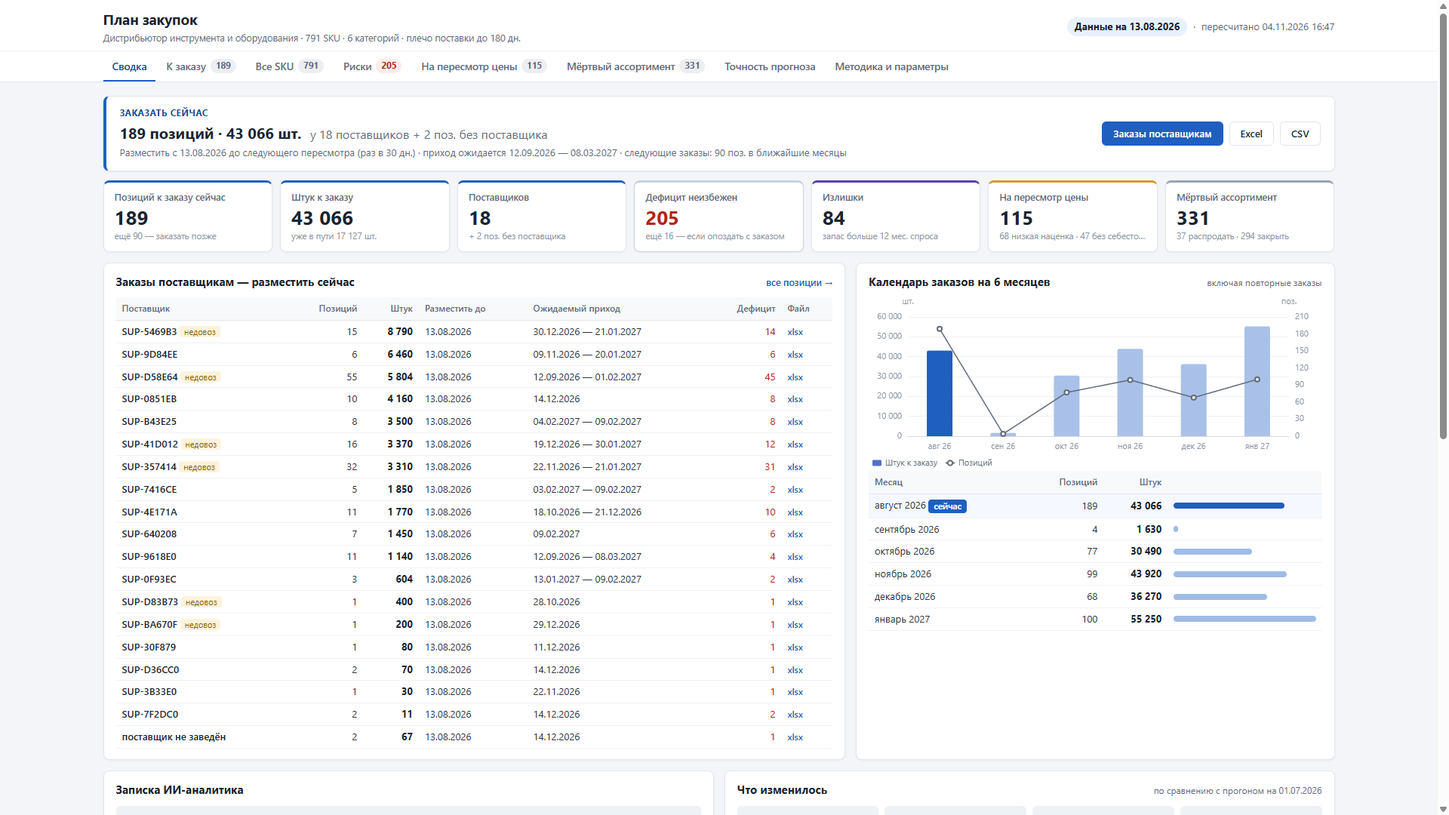
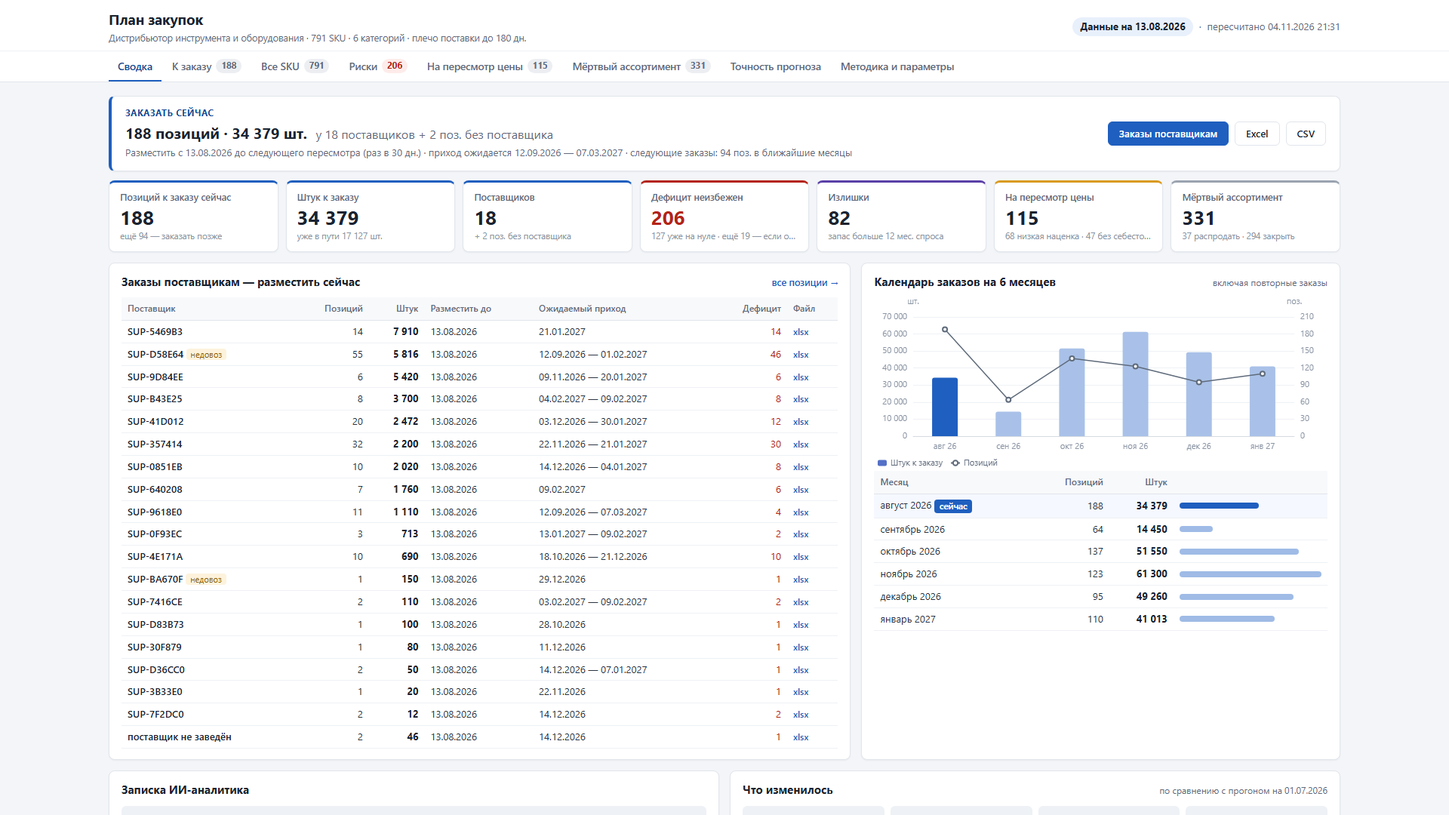
docs: решения D01–D11, словарь, прогресс, README под новые правила
AGENTS.md ссылался на .autopilot/PROGRESS.md, CONTEXT.md и docs/adr/ — их не было.
README: объяснение «331 мёртвых + 47 без себестоимости = 378», раздел о точности
прогноза, новые параметры; скилл /zakupki — новые поля расшифровки и бэктеста.

diff --git a/docs/adr/README.md b/docs/adr/README.md
@@ -1,0 +1,83 @@
+# Решения (ADR)
+
+Почему расчёт устроен так, а не проще. D01–D06 приняты во время сборки (подробности — в
+`.autopilot/2026-11-04-procurement-ai--wip/spec.md`, истории 6, 12, 15, 16, 22). D07–D11 — правки
+после ревью логики 2026-11-04: каждая найдена на реальных данных, числа «до → после» ниже.
+
+| № | Решение | Почему | Где в коде |
+|---|---|---|---|
+| D01 | «Получено» по заказу — из `receipts.csv` (приходы SKU от поставщика в окне [дата заказа; плановая + 180 дн.]); поправка на недовоз не больше ×1.2 | `qty_received` у закрытых заказов ERP почти всегда 0; при ×1.5 заказ раздувался у 13 из 20 поставщиков | `supply.supplier_reliability` |
+| D02 | Пустая наценка при продажах за 12 мес. — не «мёртвый», а «нет себестоимости» → на пересмотр | В README выгрузки 378 «мёртвых», но у 47 из них продажи были (1–22 шт.): 331 + 47 = 378 | `plan.build_plan` |
+| D03 | Прогноз на год не выше 2× продаж последних 12 мес. | Оценка упущенного спроса не должна вести к перезаказу; срезанные — с флагом | `demand.build_demand` |
+| D04 | σ устойчивая — 1.25 × MAD; страховой ≤ 2 мес. спроса | У прерывистых продаж обычная σ даёт страховой больше самого спроса | `plan.robust_sigma` |
+| D05 | Партия = медиана приходов, только если ≤ половины годового прогноза | Иначе медленная позиция заказывается на годы вперёд | `supply.lot_size`, `plan.need_at` |
+| D06 | Спрос до прихода при нулевом остатке потерян, не дозаказывается | Импорт идёт 4–6 мес.: то, что не продано в дефицит, уже не продать этим заказом | `plan.need_at` |
+| D07 | Страховой запас по сезону окна | см. ниже | `plan.build_plan` (`_window_part`, `safety_t`) |
+| D08 | До партии округляем, только если это добавляет ≤ 1 мес. спроса | см. ниже | `plan.need_at` (`lot_slack`) |
+| D09 | Заказ без сопоставленных приходов — «нет данных», а не недовоз | см. ниже | `supply.supplier_reliability` |
+| D10 | Бэктест: продажи ограничены наличием, новинки после среза не оцениваются, срез сдвигается с данными, главная метрика — WAPE по SKU | см. ниже | `backtest.run_backtest` |
+| D11 | «Заказать сейчас» покрывает всё до следующего пересмотра | см. ниже | `plan.build_plan` (`orders_from`) |
+
+## D07. Страховой запас по сезону окна
+
+**Было:** z × σ × √((L+R)/30), σ — по году, потолок — 2 средних месяца прогноза от сегодня до L+R.
+У сезонных товаров с приходом вне сезона пик попадал и в σ, и в потолок. SKU-BD8C22 (обогреватель):
+к приходу 03.02.2027 на складе 302 шт., спрос за покрытие 35 шт. — система заказывала 500 шт.
+(страховой 412). По обогревателям «заказать сейчас»: спрос покрытия 154 шт. → заказ 1 861 шт.;
+3 SKU одновременно «заказать сейчас» и «излишек» (стало 0).
+
+**Стало:** страховой для заказа с приходом в день t = √(покрытие² + плечо²), где покрытие =
+z × σ_окна × √(R/30) по окну (t; t+R], плечо = z × σ_окна × √(L/30) по окну [t−L; t); σ_окна = σ ×
+(спрос окна / средний спрос года), не ниже √(уровень × то же отношение). Потолок — 2 мес. спроса
+периода покрытия. У ровного спроса это ровно прежняя формула (тесты на ровных рядах не менялись).
+Порог «заказать до» — тот же страховой, поэтому заказ переносится к дате, когда он придёт перед
+сезоном: SKU-19BE7F — «заказать позже» 11.01.2027 с приходом 04.07.2027.
+
+**Отвергнуто:** уменьшать часть плеча до остатка к приходу (раз продажи в дефицит потеряны,
+перерасход до прихода «съедает» не больше остатка). Для одного заказа это верно, но страховой —
+постоянный уровень: заказ после дефицита должен его восстановить, иначе следующий заказ остаётся
+без защиты на своём плече. На практике это давало два заказа одного SKU в одном месяце.
+
+## D08. Предел округления до партии
+
+**Было:** округление вверх до медианы приходов, если она ≤ половины годового прогноза. Итог
+«заказать сейчас» 42 796 шт. при потребности 27 481 (+56%): SKU-626BD8 — 82 шт. → 1 900,
+SKU-3A078D — 9 → 300, расходники к триммерам — 6 271 → 16 180.
+
+**Стало:** до партии — только если округление добавляет ≤ `lot_max_overage_months` (1) мес.
+среднего спроса; иначе шаг из `lot_rounding` (10 / 50 / 100). Медиана приходов — привычный объём
+закупщика, а не минимальный заказ поставщика (его в данных нет). Типичная партия видна в
+расшифровке («до типичной партии 6 000 шт. не округляем»).
+
+## D09. Надёжность: заказ без приходов — «нет данных»
+
+**Было:** поставщик без единого сопоставленного прихода — «нет данных», поправки нет; а если не
+сопоставлена часть заказов — они шли в долю как недовоз 100%. SUP-357414: 17 из 22 заказов без
+приходов → «исполнение 22%», ×1.2 на все его позиции; у сопоставленных 5 заказов привезено 100%.
+
+**Стало:** в долю входят только заказы, к которым сопоставлен хотя бы один приход; показывается
+«заказов с приходами N из M». Поставщиков с поправкой: 6 → 3, позиций «заказать сейчас» с поправкой: 105 → 56.
+
+## D10. Честный бэктест
+
+**Было:** прогноз спроса сравнивался со всеми продажами категории. Зернодробилки «перепрогноз
++100%»: SKU-647CB9 продал 3 001 шт. за 10 мес., а все 12 проверочных месяцев стоял с нулевым
+остатком — продаж не было из-за отсутствия товара. У расходников к триммерам 137 из 177 тыс. шт.
+факта — новинки, заведённые после среза. Срез зашит в код (2025-08-01). Точность — только по
+сумме категории: ошибки разных SKU гасят друг друга.
+
+**Стало:** прогноз продаж месяца = min(прогноз спроса; остаток на 1-е + приходы месяца) — у модели
+и у наивного одинаково; новинки после среза — отдельной строкой (`new_sku_actual`), в ошибку не
+входят; срез = дата анализа − `backtest_months`; главная метрика — WAPE по парам «SKU × месяц».
+Итог: WAPE по SKU 66% против 86% у наивного, зернодробилки — смещение −37% вместо +100%.
+Категории, где модель по SKU не точнее наивного (сейчас зернодробилки и смесители), — флаг у их
+позиций к заказу. По бэктесту же выбрано затухание тренда `trend_damping = 0.5` (ошибка по SKU
+68% → 66%).
+
+## D11. Заказ сейчас — до следующего пересмотра
+
+Перед сезоном (расходники к триммерам, приход в январе–феврале) расчёт ставил следующий заказ
+того же SKU через 1–18 дн.: каждый заказ покрывает R = 60 дн., а спрос растёт. Закупщик вернётся
+только через `review_period_days`, поэтому повторный заказ с датой не позже пересмотра входит в
+текущий (`merged_until_review` в расшифровке). 34 позиции, +5 560 шт.; календарь за месяц даты
+анализа теперь совпадает с «заказать сейчас» и по штукам.

diff --git a/README.md b/README.md
@@ -71,6 +71,14 @@ data/raw/*.csv ──► data ──► demand ──► plan ──► out/plan
 
 Каждое слагаемое сохраняется в `explain` у SKU и показывается на дашборде. Товар с наценкой ниже порога или без себестоимости в заказ не попадает — он идёт в список на пересмотр цены; без продаж 12 месяцев — в мёртвый ассортимент.
 
+Что важно в деталях (решения — [docs/adr/](docs/adr/README.md)):
+
+- **Страховой запас по сезону окна (D07).** √(покрытие² + плечо²), каждая часть — по разбросу продаж, отмасштабированному сезоном своего окна, не больше 2 мес. спроса периода покрытия. Обогреватель с приходом в феврале не получает октябрьский страховой: заказ переносится на дату, к которой он придёт перед сезоном.
+- **Партия (D08).** Медиана приходов SKU — привычный объём, а не минимальный заказ поставщика: до неё округляем, только если это добавляет не больше месяца спроса.
+- **Надёжность поставщика (D09).** Заказ, к которому не сопоставлен ни один приход, — «нет данных», а не «недовоз 100%».
+- **Заказ сейчас — до следующего пересмотра (D11).** Если по расчёту следующий заказ понадобится раньше, чем через 30 дн. (сезон набирает ход), он входит в текущий.
+- **Мёртвый ассортимент: 331 + 47 = 378.** В README выгрузки «пустая наценка = 378 мёртвых SKU». У 47 из них продажи за 12 мес. были (1–22 шт.), но себестоимость не проставлена: они не мёртвые, а идут «на пересмотр» с флагом «нет себестоимости» (D02). Мёртвых по продажам — 331.
+
 Результат прогона: `out/plan.json` (план), `out/diff.json` (изменения), `out/backtest.json` (точность), `out/note.json` (записка ИИ), `history/<дата анализа>.json` (коммитится; повторный прогон на тех же данных перезаписывает свою дату), `site/` (дашборд).
 
 ## Параметры
@@ -83,6 +91,9 @@ data/raw/*.csv ──► data ──► demand ──► plan ──► out/plan
 | `default_cover_days` | 60 | период покрытия, дн., если в ERP не задан |
 | `review_period_days` | 30 | как часто пересматривается план, дн. |
 | `service_level` | A 0,95 · B 0,90 · C 0,80 | уровень сервиса по ABC для страхового запаса |
+| `safety_cap_months` | 2 | потолок страхового запаса, мес. спроса периода покрытия |
+| `lot_max_overage_months` | 1 | до типичной партии округляем, если это добавляет не больше стольких мес. спроса |
+| `trend_damping` | 0,5 | затухание тренда (тренд^N), выбрано по бэктесту |
 | `lead_default_days` | 123 | плечо, если нет истории ни по SKU, ни по поставщику |
 | `excess_cover_months` | 12 | излишек: запаса больше чем на столько месяцев |
 | `dead_months` | 12 | мёртвый ассортимент: нет продаж столько месяцев |
@@ -92,11 +103,15 @@ data/raw/*.csv ──► data ──► demand ──► plan ──► out/plan
 
 Скилл `/zakupki` умеет поменять параметр, пересчитать в отдельную папку и показать разницу KPI.
 
+## Точность прогноза
+
+Бэктест: модель учится на данных до среза (дата анализа − 12 мес.) и прогнозирует 12 мес., которые сверяются с фактом; ориентир — «среднее за последние 12 мес.» по каждому SKU. Главная метрика — WAPE по парам «SKU × месяц» (заказ решается по SKU). Сравнение честное к наличию (D10): прогноз продаж месяца = min(прогноз спроса; остаток на 1-е + приходы), так месяц без товара не считается ошибкой; продажи новинок, заведённых после среза, не прогнозирует никто — они в оценку не входят. На текущих данных: WAPE по SKU — 66% у модели против 86% у наивного; модель точнее в 4 категориях из 6. В двух (зернодробилки, смесители) наивный не хуже — позиции к заказу оттуда помечены «прогноз категории не точнее наивного — проверить».
+
 ## Регулярный запуск
 
 GitHub Actions ([`.github/workflows/plan.yml`](.github/workflows/plan.yml)) пересчитывает план:
 
-- каждый день в 00:00 UTC (07:00 по Новосибирску);
+- каждый день в 00:00 UTC (07:00 по Новосибирску); чтобы GitHub не выключил расписание через 60 дней без коммитов, раз в 50 дней job делает пустой коммит;
 - при пуше новых CSV в `data/raw/`;
 - по кнопке **Actions → «План закупок» → Run workflow**.
 

diff --git a/CONTEXT.md b/CONTEXT.md
@@ -1,0 +1,27 @@
+# Словарь
+
+Слова, которые в коде, на дашборде и в разговоре значат одно и то же.
+
+| Слово | Что значит | В коде |
+|---|---|---|
+| Дата анализа | День, на который считается план: день выгрузки неполного последнего месяца (13-е), иначе 1-е число следующего | `as_of`, `data.detect_as_of` |
+| Плечо, L | Дней от размещения заказа до прихода на склад: медиана плановых сроков заказов SKU → поставщика → 123; в пределах 30–180 | `lead_days`, `supply.lead_times` |
+| Покрытие, R | Сколько дней после прихода заказ должен закрывать спрос: `target_cover_days` из ERP, иначе 60 | `cover_target_days` |
+| Пересмотр | Как часто закупщик пересчитывает план — раз в 30 дн.; всё, что нужно заказать до следующего, — «заказать сейчас» | `review_period_days` |
+| Окно покрытия / окно плеча | (t; t+R] и [t−L; t) для заказа с приходом в день t — по ним считаются части страхового запаса (D07) | `s_cover`, `s_lead` |
+| Страховой запас | Запас на ошибку прогноза: √(покрытие² + плечо²), каждая часть по сезону своего окна, не больше 2 мес. спроса покрытия | `safety`, `safety_stock` |
+| Остаток к приходу | Что останется на складе в день прихода заказа: max(0; остаток + в пути до прихода − прогноз до прихода) — продажи в дефицит потеряны (D06) | `stock_at_arrival` |
+| В пути | Открытые заказы с непришедшим количеством; просроченные ≤ 90 дн. ждём через 30 дн., дольше — «уточнить у поставщика» | `arrivals`, `stale_po` |
+| Потребность | Прогноз на окне покрытия + страховой − остаток к приходу − в пути в окне покрытия | `gross` |
+| Поправка на недовоз | Множитель к потребности, если поставщик привозит меньше 95% заказанного; не больше ×1.2 | `uplift`, `reliability` |
+| Партия | Медиана приходов SKU, округлённая до 10/50/100; до неё округляем, только если это добавляет ≤ 1 мес. спроса (D08) | `typical_lot`, `lot` |
+| Заказать до | День, когда проекция остатка опустится ниже страхового, минус плечо | `order_by` |
+| Хватит до | День, когда потеряна первая штука спроса (остаток кончился) с учётом прихода заказов в пути | `stockout_date`, `cover_days` |
+| Дефицит неизбежен | Товар кончится раньше, чем придёт заказ, размещённый сегодня | `deficit_unavoidable` |
+| Излишек | Остаток + в пути больше прогноза на 12 мес. | `excess` |
+| Упущенный спрос (цензура) | Месяц с нулевым остатком на 1-е и нулевыми продажами — «не было товара», а не «нет спроса»; в оценку уровня не идёт | `censored` |
+| Мёртвый ассортимент | Нет продаж 12 мес.: с остатком — «распродать», без — «закрыть карточку» | `dead_sell`, `dead_close` |
+| На пересмотр цены | Наценка за 12 мес. ниже 25% или себестоимость не проставлена — не в заказ | `review_price` |
+| ABC | Класс по продажам 12 мес. внутри категории (80/95%) — задаёт уровень сервиса 95/90/80% | `abc` |
+| Наивный прогноз | «Среднее за последние 12 мес.» по SKU — ориентир в бэктесте | `naive` |
+| WAPE по SKU | Σ|прогноз − факт| / Σ факт по парам «SKU × месяц» — главная метрика точности (D10) | `wape_sku_model` |

diff --git a/.claude/skills/zakupki/SKILL.md b/.claude/skills/zakupki/SKILL.md
@@ -47,13 +47,13 @@ $PY -c "import json,sys; sys.stdout.reconfigure(encoding='utf-8'); p=json.load(o
 
 Как читать `explain` («почему столько»):
 1. `forecast_horizon` — прогноз спроса на период, который покрывает заказ (от прихода через `lead_days` ещё на `cover_target_days`).
-2. `+ safety` — страховой запас (уровень сервиса по ABC, `z`, `sigma_monthly`; не больше потолка).
+2. `+ safety` — страховой запас: √(`safety_cover`² + `safety_lead`²) — части окна покрытия и окна плеча, каждая по сезону своего окна (уровень сервиса по ABC, `z`, `sigma_monthly`), не больше `safety_cap` (2 мес. спроса периода покрытия).
 3. `− stock_at_arrival` — что останется к приходу: `stock` + `transit_lead` (придёт до заказа) − `forecast_lead` (продастся до прихода), не меньше нуля.
 4. `− transit` — что ещё придёт по открытым заказам внутри покрываемого периода.
-5. `= gross`, затем `× uplift` (поправка на недовоз поставщика), округление до партии `lot` (`lot_source`: «партия», «шаг», «потолок») → `final`, он же `order_qty`.
+5. `= gross`, затем `× uplift` (поправка на недовоз поставщика), округление до партии `lot` (`lot_source`: «партия», «шаг», «потолок»; `typical_lot` — медиана приходов, до неё округляем, только если это добавляет ≤ 1 мес. спроса) → `final`, он же `order_qty`. `merged_until_review` — следующий заказ, который понадобился бы раньше пересмотра и вошёл в этот.
 Справочно: `arrival` — когда придёт заказ, размещённый сегодня; `days_short` и `lost_lead` — сколько дней и штук спроса будет потеряно до прихода; `excess_qty` — штук сверх нормы.
 
-По поставщику: строки `items` с этим `supplier_id`, его заказ — `supplier_orders`, надёжность — `reliability` (`fill_ratio` — доля привезённого, `uplift` — поправка), просрочки — `stale_po`, ожидаемые приходы — `arrivals`. Что изменилось с прошлого прогона — `out/diff.json` (`new_orders`, `dropped_orders`, `changed`, `new_risks`). Пояснения ИИ к рисковым SKU — `out/note.json` → `sku_notes` (это текст, числа сверяй с `plan.json`). Точность прогноза по категориям — `out/backtest.json` (`wape_model` против `wape_naive`, меньше — лучше).
+По поставщику: строки `items` с этим `supplier_id`, его заказ — `supplier_orders`, надёжность — `reliability` (`fill_ratio` — доля привезённого, `uplift` — поправка), просрочки — `stale_po`, ожидаемые приходы — `arrivals`. Что изменилось с прошлого прогона — `out/diff.json` (`new_orders`, `dropped_orders`, `changed`, `new_risks`). Пояснения ИИ к рисковым SKU — `out/note.json` → `sku_notes` (это текст, числа сверяй с `plan.json`). Точность прогноза — `out/backtest.json`: главное — `wape_sku_model` против `wape_sku_naive` (ошибка по SKU, меньше — лучше), по сумме категории — `wape_model` / `wape_naive`; `new_sku_actual` — продажи новинок после среза, в оценку не входят.
 
 ## 3. Собрать заказ поставщику
 

diff --git a/.autopilot/PROGRESS.md b/.autopilot/PROGRESS.md
@@ -1,0 +1,30 @@
+# Прогресс
+
+Сборка: `.autopilot/2026-11-04-procurement-ai--wip/` (ещё не сдана — сдача Яне 2026-11-05 до 18:00 НСК).
+
+## Не доделано
+
+- Секреты GitHub (`DEEPSEEK_API_KEY`, `TELEGRAM_BOT_TOKEN`, `TELEGRAM_CHAT_ID`) — вводит пользователь: `bash scripts/setup_secrets.sh`.
+- Видео: сцены рабочего стола s09/s15/s21 — заглушки; s02 и озвучка с числами — под старые цифры (до D07–D11: 189 поз. / 42 796 шт.), переснять под текущие (188 поз. / 34 379 шт.).
+
+## Известные баги
+
+—
+
+## Договорились
+
+- Все параметры — в `config.toml`, меняются без правки кода (Q4).
+- Публикация, запись экрана, отправка Яне — только после явного «да» пользователя.
+- Коммиты без подписи Co-Authored-By Claude.
+
+## Правки без автопилота
+
+| Дата | Что | Почему |
+|---|---|---|
+| 2026-11-04 | Страховой запас по сезону окна (D07) | у сезонных товаров с приходом вне сезона страховой раздувался пиком: обогреватели — 1 861 шт. к заказу при спросе покрытия 154 |
+| 2026-11-04 | Предел округления до партии — 1 мес. спроса (D08) | медиана приходов раздувала заказ на 56% (82 шт. → 1 900) |
+| 2026-11-04 | Надёжность: заказ без приходов — «нет данных» (D09) | непоследовательно: 0 сопоставленных — «нет данных», часть — «недовоз 100%» (SUP-357414 «22%» при 100% по сопоставленным) |
+| 2026-11-04 | Бэктест: наличие, новинки, сдвиг среза, WAPE по SKU, флаг слабых категорий, затухание тренда 0.5 (D10) | «перепрогноз +100%» у зернодробилок был из-за месяцев без товара; новинки давали −49% смещения; срез был зашит |
+| 2026-11-04 | Повторный заказ до пересмотра — в текущий (D11) | перед сезоном второй заказ того же SKU через 1–18 дн. |
+| 2026-11-04 | Подсказка «возможно, получен» у давно просроченных заказов; «из них уже нет на складе» у дефицита; проверка `as_of` позже данных; keepalive расписания Actions | мелкие замечания ревью |
+| 2026-11-04 | `CONTEXT.md`, `docs/adr/`, этот файл | `AGENTS.md` ссылался на них, а их не было |
